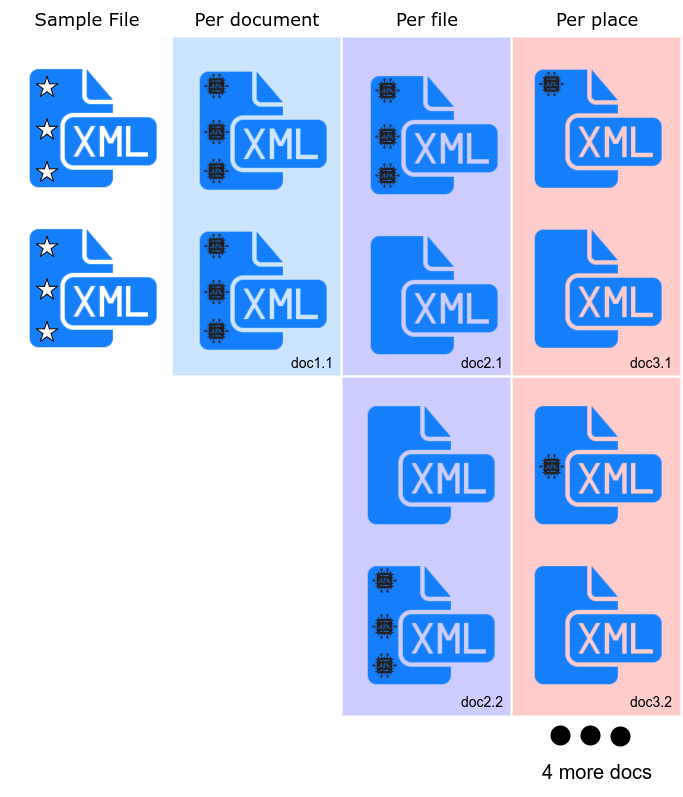
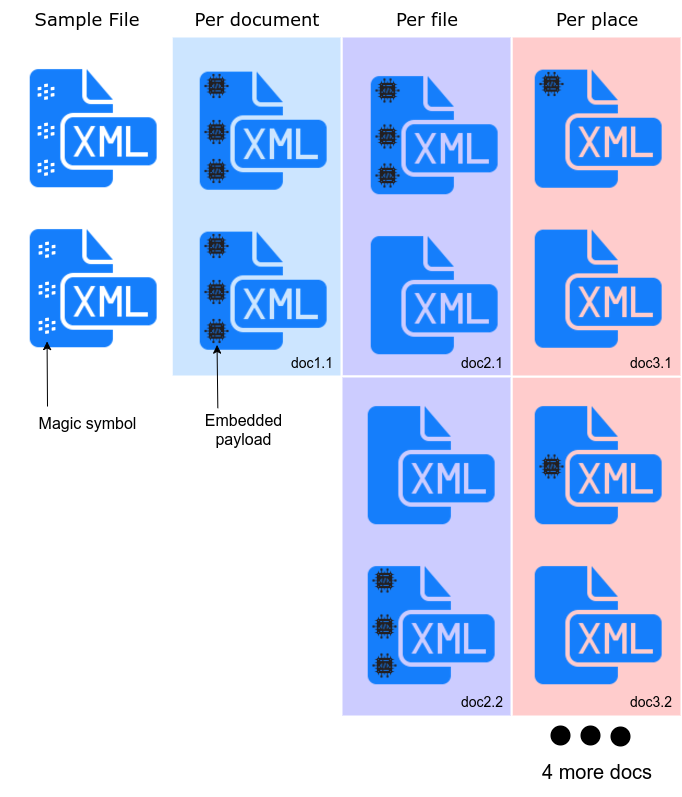
version 1.1

diff --git a/docem.py b/docem.py
@@ -44,16 +44,42 @@ def document_prepare_initial_paths(path_to_file):
 	# but it might break something
 	if path_to_tmp.find('tmp') == 1: path_to_tmp = 'tmp/'
 
-	# Create separate variables for an original file
-	original_file_name = path_to_file.split('/')[-1].split('.')[0]
-	original_file_ext = path_to_file.split('/')[-1].split('.')[1]
+	# Determine whether supplied path is a path to dir
+	sample_type_is_folder = os.path.isdir(path_to_file)
 
-	# create variables for a copied files
-	path_to_copied_file = path_to_tmp + original_file_name + '.zip'
+	if sample_type_is_folder:
+
+		# Check that sample_type is set
+		# (Very dumb place for a check)
+		if not args.sample_extension and sample_type_is_folder:
+			print('\nError: You have to specify sample_type (example: -sx docx) when using sample from directory')
+			exit()
+
+		# If path was set as 'samples/xxe/sample_oxml_xxe_mod1/'
+		if len(path_to_file) - 1 == path_to_file.rfind('/'):
+			path_to_file = path_to_file[:-1]
+		# If path was set as 'samples/xxe/sample_oxml_xxe_mod1' 
+		# do nothing
+		# samples/xxe/sample_oxml_xxe_mod1 - is our format
+
+		original_file_name = path_to_file.split('/')[-1]
+		original_file_ext = args.sample_extension
+
+		path_to_copied_file = ''
+
+	else:
+
+		# Create separate variables for an original file
+		original_file_name = path_to_file.split('/')[-1].split('.')[0]
+		original_file_ext = path_to_file.split('/')[-1].split('.')[1]
+
+		# create variables for a copied files
+		path_to_copied_file = path_to_tmp + original_file_name + '.zip'
 
 	# create variables for an unzipped files
 	unzipped_file_name = original_file_name + '_' + original_file_ext
 	path_to_unzipped_folder_original = path_to_tmp + unzipped_file_name + '/'
+
 
 	paths_and_names = {
 		"path_to_script" : path_to_script,
@@ -66,7 +92,8 @@ def document_prepare_initial_paths(path_to_file):
 		"original_file_ext" : original_file_ext,
 		"unzipped_file_name" : unzipped_file_name,
 		"modified_file_name" : original_file_name,
-		"path_to_modified_file" : ''
+		"path_to_modified_file" : '',
+		"sample_type_is_folder" : sample_type_is_folder
 	}
 	#print(paths_and_names)
 	return(paths_and_names)
@@ -103,18 +130,20 @@ def docuemnt_prepare_future_paths(paths, payload_type, payload_key, single_place
 
 
 # copy, rename and unzip
-def document_unpack(paths, doctype='doc'):
+def document_unpack(paths):
 
-	if doctype == 'doc':
+	# If sample is a folder
+	if paths['sample_type_is_folder']:
+		shutil.copytree(paths["path_to_orignal_file"],paths["path_to_unzipped_folder_original"])
+
+	# If sample is a .docx or smth
+	else:
 		# copy original file into script_script/dir and rename extension to .zip
 		shutil.copy(paths["path_to_orignal_file"],paths["path_to_copied_file"])
 		# unzip renamed file into direc
 		shutil.unpack_archive(paths["path_to_copied_file"],paths["path_to_unzipped_folder_original"])
 		# debug
 		#print(paths["path_to_unzipped_folder_original"])
-
-	elif doctype == 'folder':
-		shutil.copy(paths["path_to_orignal_file"],paths["path_to_copied_file"])
 		
 
 def document_tree_generate(paths, opt=1):
@@ -180,16 +209,18 @@ def document_embed_payloads(payload_mode,payload_type,single_file_dict, payload_
 
 	if payload_mode == 'xss':
 		with open(single_file_dict['tmp_mod_path'],'w') as single_file:
-
-			if payload_type == 'per_document' or payload_mode == 'per_file':
+	
+			if payload_type == 'per_document' or payload_type == 'per_file':
 
 				single_file_mod = single_file_dict['content'].replace(magic_symbol, payload_single)
 
-			elif payload_mode == 'per_place':
+			elif payload_type == 'per_place':
 
 				single_file_mod = single_file_dict['content'][:offset_in_single_file] 
+
 				single_file_mod += payload_single + single_file_dict['content'][offset_in_single_file+1:] 
 				
+
 				# Clear other places in a file
 				single_file_mod = single_file_mod.replace(magic_symbol,'')
 
@@ -390,18 +421,17 @@ _|    _|  _|    _|  _|        _|        _|    _|    _|
 _|_|_|      _|_|      _|_|_|    _|_|_|  _|    _|    _|  
                                                                                                         
 	'''
-	version = '1.0'
+	version = '1.1'
 	print(logo)
 	print('Current version: %s\n'%version)
 
 def interface_print_example():
 	examples = 	[
-		'./docem.py -s samples/xxe/sample_oxml_xxe.docx -pm xxe',
-		'./docem.py -s samples/xxe/sample_oxml_xxe_mod0.docx -pm xxe -pf payloads/xxe_special_2.txt -kt -pt per_file',
-		'./docem.py -s samples/xxe/sample_oxml_xxe_mod1.docx -pm xxe -pf payloads/xxe_special_2.txt -kt -pt per_place'
+		'./docem.py -s samples/xxe/sample_oxml_xxe_mod0/ -pm xss -pf payloads/xss_all.txt -pt per_document -kt -sx docx',
+		'./docem.py -s samples/xxe/sample_oxml_xxe_mod1.docx -pm xxe -pf payloads/xxe_special_2.txt -kt -pt per_place',
+		'./docem.py -s samples/xss_sample_0.odt -pm xss -pf payloads/xss_tiny.txt -pm per_place',
+		'./docem.py -s samples/xxe/sample_oxml_xxe_mod0/ -pm xss -pf payloads/xss_all.txt -pt per_file -kt -sx docx'
 	]
-
-	
 	
 	print('Examples:\n%s\n' % '\n'.join(e for e in examples))
 
@@ -418,11 +448,12 @@ if __name__ == '__main__':
 	
 	required.add_argument('-s', dest='sample', type=str, help='path to sample file')
 	required.add_argument('-pm', dest='payload_mode',type=str,choices=['xss','xxe'],help='payload mode: embedding XXE or XSS in a file')
-	
-	optional.add_argument('-xf', dest='xxe_file', type=str, help='url to use in XXE payload. Default is: \'file:///etc/lsb-release\'', default='file:///etc/lsb-release')
+
+	#optional.add_argument('-xu', dest='xxe_uri', type=str, help='URI to use in XXE payload - file as \'file:///etc/lsb-release\' or url as \'http://example.com\'')
 	optional.add_argument('-kt', dest='keep_tmp', action='store_true', help='do not delete unpacked and modified folders')
-	optional.add_argument('-xu', dest='xxe_url', type=str, help='url to use in XXE payload')
 	optional.add_argument('-pt', dest='payload_type', type=str, help='how many payloads will be in one file. per_document is default',choices=['per_place','per_file','per_document'],default='per_document')
+	#optional.add_argument('-st', dest='sample_type', type=str, help='d ',choices=['doc','folder'],default='doc')
+	optional.add_argument('-sx', dest='sample_extension', type=str, help='d ')
 	optional.add_argument('-pf', dest='payload_file',type=str, help='path to a file with payloads to embed',default='payloads/no_payload.txt')
 
 	parser._action_groups.append(optional)
@@ -432,24 +463,29 @@ if __name__ == '__main__':
 	magic_symbol = '፨'
 
 	path_to_complex_file = args.sample
-
 	
 	if args.sample:
 
 		if os.path.exists(args.sample) and os.path.exists(args.payload_file):
 			print('Document Embed XSS & XXE tool')
 			
+
 			payloads = payloads_read_file(args.payload_file)
 
+			# Create dict with a lot of file paths that will be used 
+			# in future
 			paths = document_prepare_initial_paths(path_to_complex_file)
 			
+			print('\npaths in the beginning\n',paths)
+
 			# Create tmp directory if it is not exists
 			if not os.path.exists(paths["path_to_tmp"]):
 				os.mkdir(paths["path_to_tmp"])
 
 			print('\nCurrent setup')
+			print('sample file:\t\t',args.sample)
+			print('sample is it dir:\t',paths['sample_type_is_folder'])
 			print('payload mode:\t\t',args.payload_mode)
-			print('sample:\t\t\t',args.sample)
 			print('payload file:\t\t',args.payload_file)
 			print('payload type:\t\t',args.payload_type)
 			print('number of payloads:\t',len(payloads))

diff --git a/README.md b/README.md
@@ -32,7 +32,7 @@ Also there are three different types of `payload_type` - every type determine ho
 Every `payload_type` described in section `Usage`.
 Here is a small scheme of how this works:
 
-![diag1](https://github.com/whitel1st/docem/blob/master/pics/diag1.png "diag1")t
+![diag1](https://github.com/whitel1st/docem/blob/master/pics/diag1.png "diag1")
 
 ![screenshot](https://github.com/whitel1st/docem/blob/master/pics/screenshot.png "screenshot")
 
@@ -45,32 +45,43 @@ pip3 install -r requirements.txt
 
 ## Usage Docem
 
-General 
-
 ```
 python3 docem.py --help
 ```
 
 - required args
-	- `-s` - path to a sample file
+	- `-s` - path to a `sample file` or a `sample directory`
 	- `-pm` - payload mode
 		- `xss` - XSS - Cross Site Scripting 
 		- `xxe` - XXE - External XML Entity 
 - optional
-	- `-pm` - payload type
+	- `-pt` - payload type
 		- `per_document` - (default mode) for every payload, embed payload in all places in all files and create new doc
 		- `per_file` - for every payload, for every file inside a docuement, for all places inside file embed payload and create new doc
 		- `per_place` - for every payload, for every place in every file, embed payload and create new doc
-	- `-pf` - payload file. Path to a file with payloads
+	- `-pf` - payoload file
 	- `-kt` - do not delete temp folders in tmp 
+	- `-sx ` - sample extension - used when sample is a directory
 	- `-h` - print help
 
-Example 
+Examples 
 ```bash
-./docem.py -s samples/xss_sample_0.odt -pm xss -pf payloads/xss_tiny.txt -pm per_place
+./docem.py -s samples/xxe/sample_oxml_xxe_mod0/ -pm xss -pf payloads/xss_all.txt -pt per_document -kt -sx docx
 ./docem.py -s samples/xxe/sample_oxml_xxe_mod1.docx -pm xxe -pf payloads/xxe_special_2.txt -kt -pt per_place
+./docem.py -s samples/xss_sample_0.odt -pm xss -pf payloads/xss_tiny.txt -pm per_place
+./docem.py -s samples/xxe/sample_oxml_xxe_mod0/ -pm xss -pf payloads/xss_all.txt -pt per_file -kt -sx docx
 ```
 
+
+## How to create custom sample
+
+### Via new file
+
+1. Extract your document `example.docx`
+2. Add magic symbols - `፨` (yes, literally - those fancy 5 dots) in places where you want payloads to be embed
+3. Zip your new sample into `example_modified0.zip`
+4. Rename extension - `example_modified0.docx`
+5. Use new sample with tool
 
 ## File with payloads format
 
@@ -94,10 +105,14 @@ String from a file
 No special format.
 Just a file with strings. As if you would use it in any other tool.
 
-## ToDo
+## Features and ToDo
 
-- [x] Read file with payloads
-- [ ] Add flag to specify custom url to use in XXE
-- [ ] Add flag to specify custom url to use in XSS
-- [ ] Add ability to embed not only in xml but in unzip file also
+- Features
+	- [x] Read file with payloads
+		- [x] XXE custom payload file
+		- [x] XSS payload file
+- ToDo
+	- [ ] Add flag to specify custom url to use in XXE
+	- [ ] Add flag to specify custom url to use in XSS
+	- [ ] Add ability to embed not only in xml but in unzip file also
 
